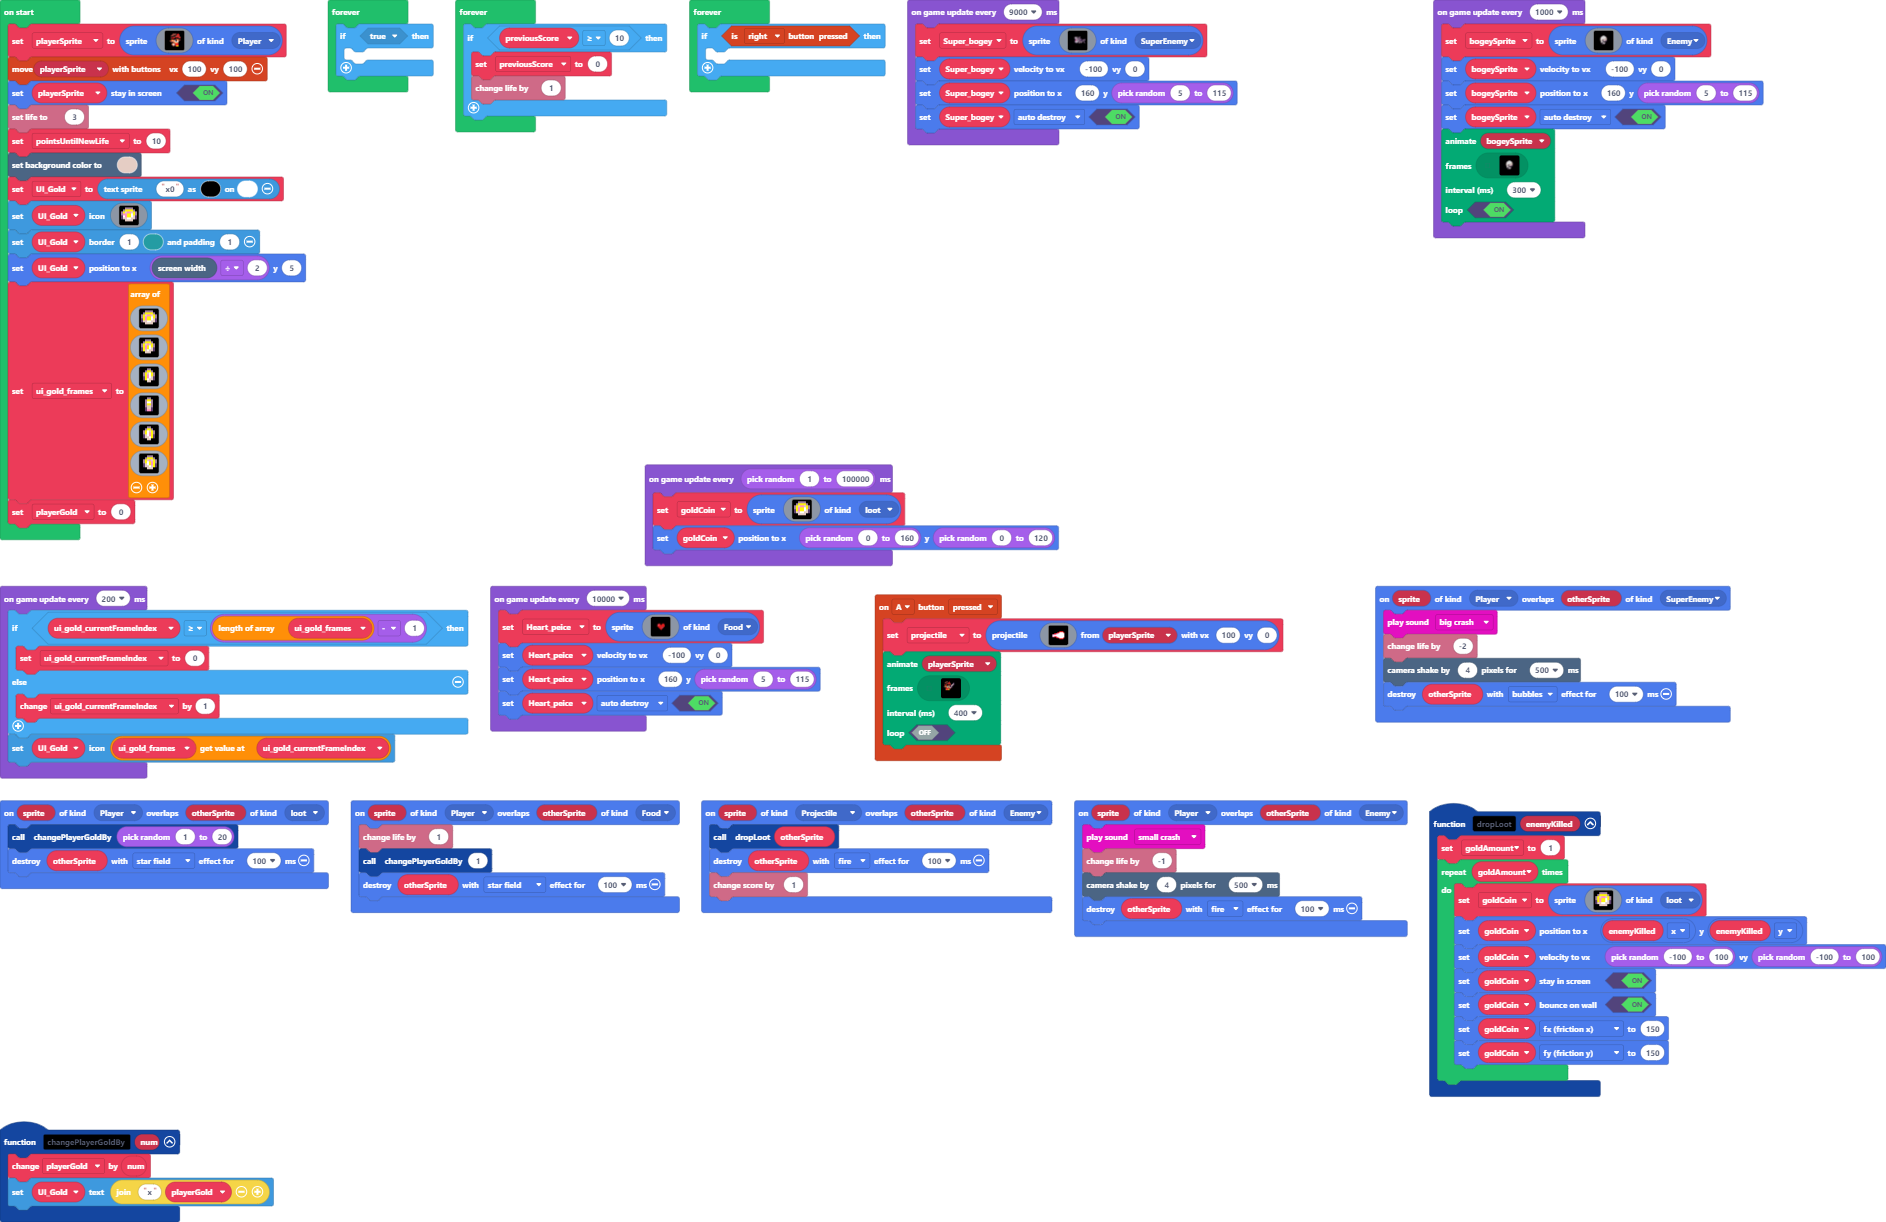
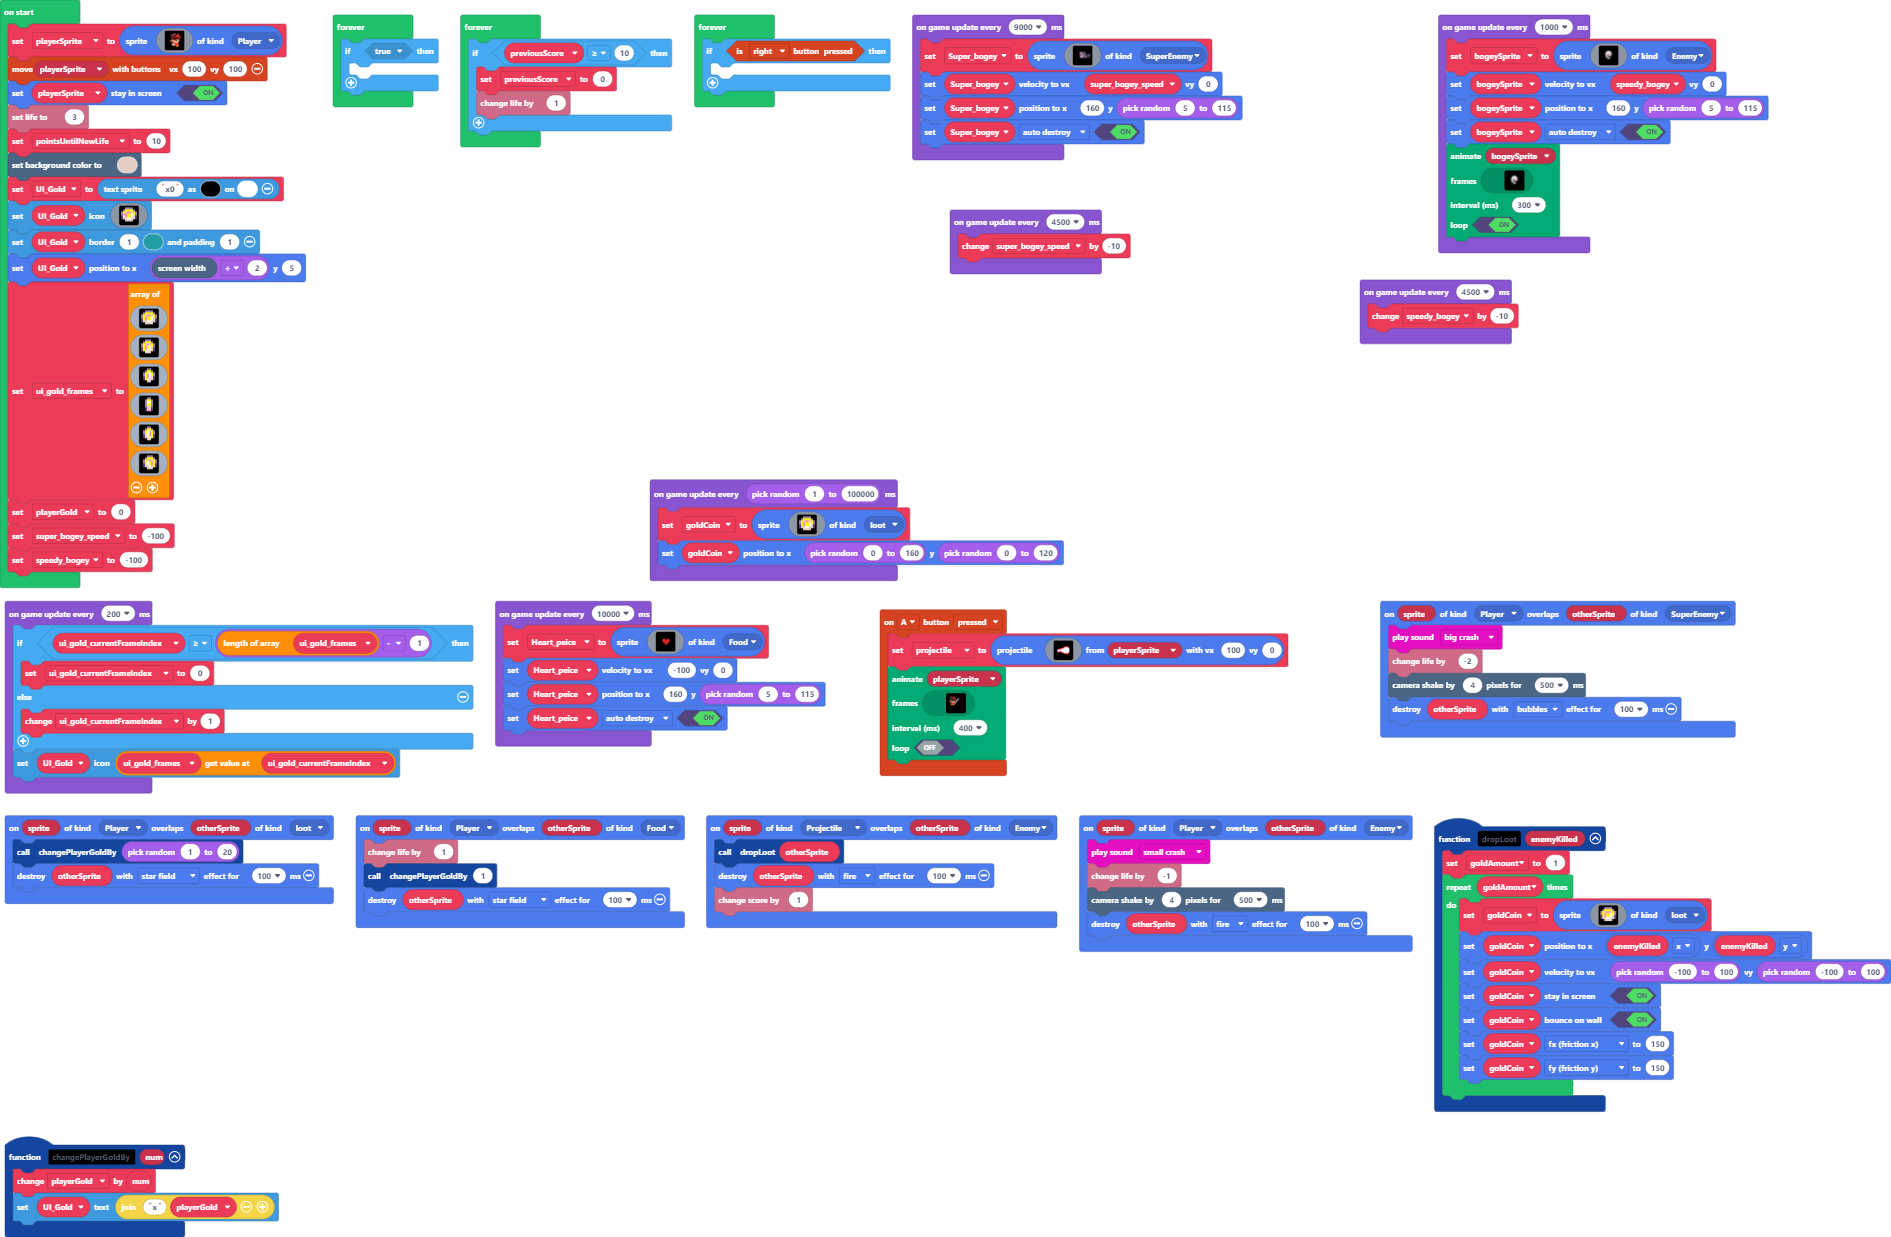
Update pxt.json, main.blocks, main.ts

diff --git a/main.ts b/main.ts
@@ -273,6 +273,8 @@ img`
     `
 ]
 playerGold = 0
+let super_bogey_speed = -100
+let speedy_bogey = -100
 game.onUpdateInterval(9000, function () {
     Super_bogey = sprites.create(img`
         ...........fffffff...ccfff..........
@@ -292,7 +294,7 @@ game.onUpdateInterval(9000, function () {
         ..............cccfffbdbbfcc.....fbbf
         ....................fffff........fff
         `, SpriteKind.SuperEnemy)
-    Super_bogey.setVelocity(-100, 0)
+    Super_bogey.setVelocity(super_bogey_speed, 0)
     Super_bogey.setPosition(160, randint(5, 115))
     Super_bogey.setFlag(SpriteFlag.AutoDestroy, true)
 })
@@ -323,7 +325,7 @@ game.onUpdateInterval(1000, function () {
         ........................
         ........................
         `, SpriteKind.Enemy)
-    bogeySprite.setVelocity(-100, 0)
+    bogeySprite.setVelocity(speedy_bogey, 0)
     bogeySprite.setPosition(160, randint(5, 115))
     bogeySprite.setFlag(SpriteFlag.AutoDestroy, true)
     animation.runImageAnimation(
@@ -419,6 +421,12 @@ game.onUpdateInterval(200, function () {
         ui_gold_currentFrameIndex += 1
     }
     UI_Gold.setIcon(ui_gold_frames[ui_gold_currentFrameIndex])
+})
+game.onUpdateInterval(4500, function () {
+    super_bogey_speed += -10
+})
+game.onUpdateInterval(4500, function () {
+    speedy_bogey += -10
 })
 game.onUpdateInterval(10000, function () {
     Heart_peice = sprites.create(img`
